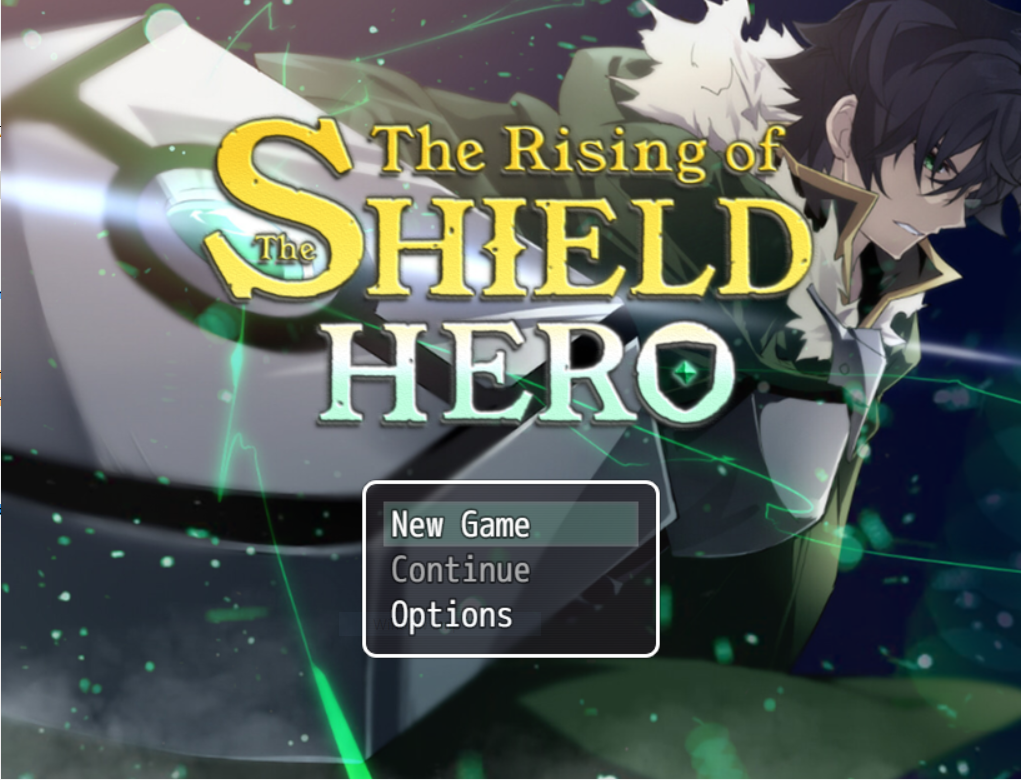
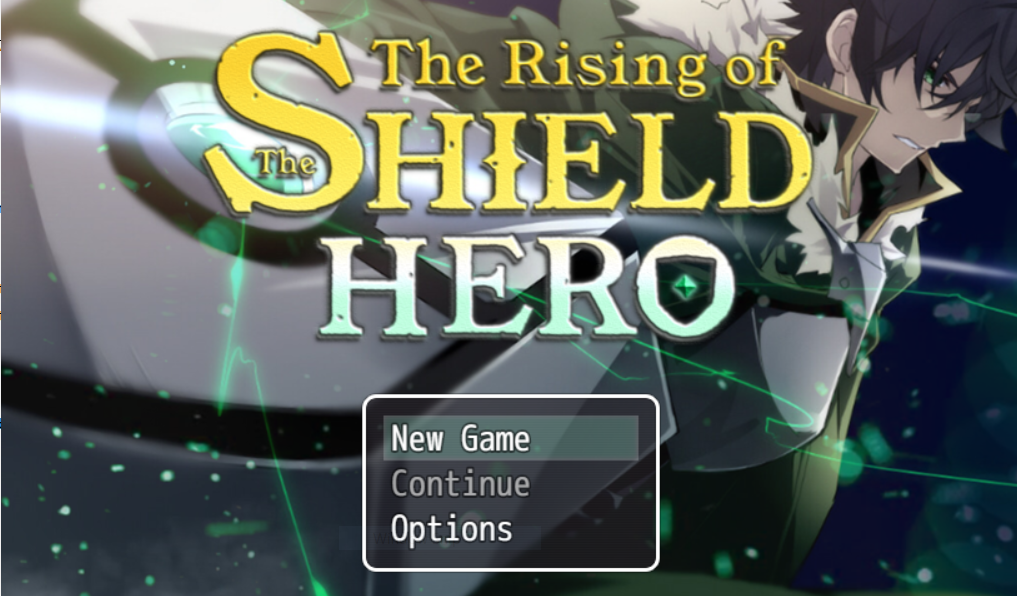
Change trosh.PNG size, and fix HealthyRoasters

diff --git a/index.html b/index.html
@@ -431,6 +431,8 @@
 								</p>
 								<p class="card-text">
 									Designer: Julie Ann Reodique
+								</p>
+								<p class="card-text">
 									Co-developer: Edward Jocel Parrucho
 								</p>
 							</div>
